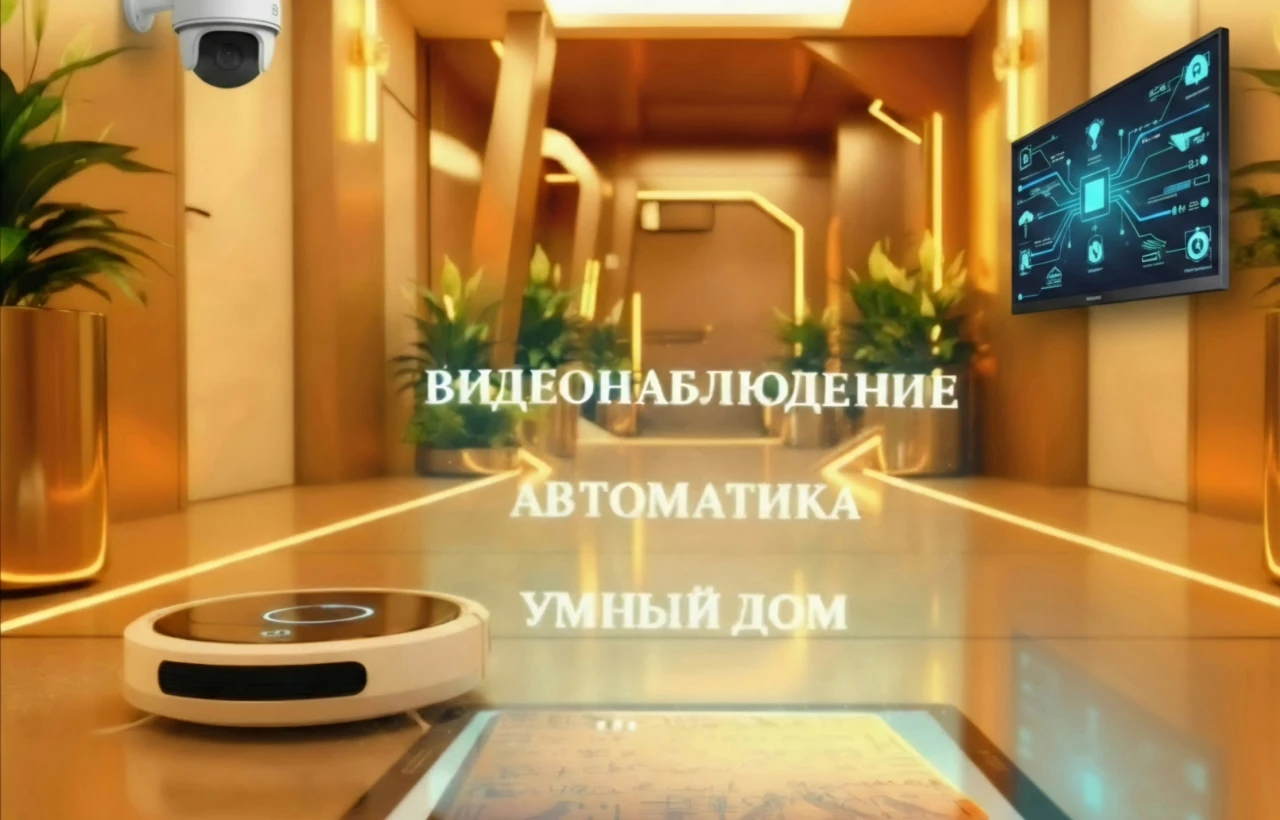
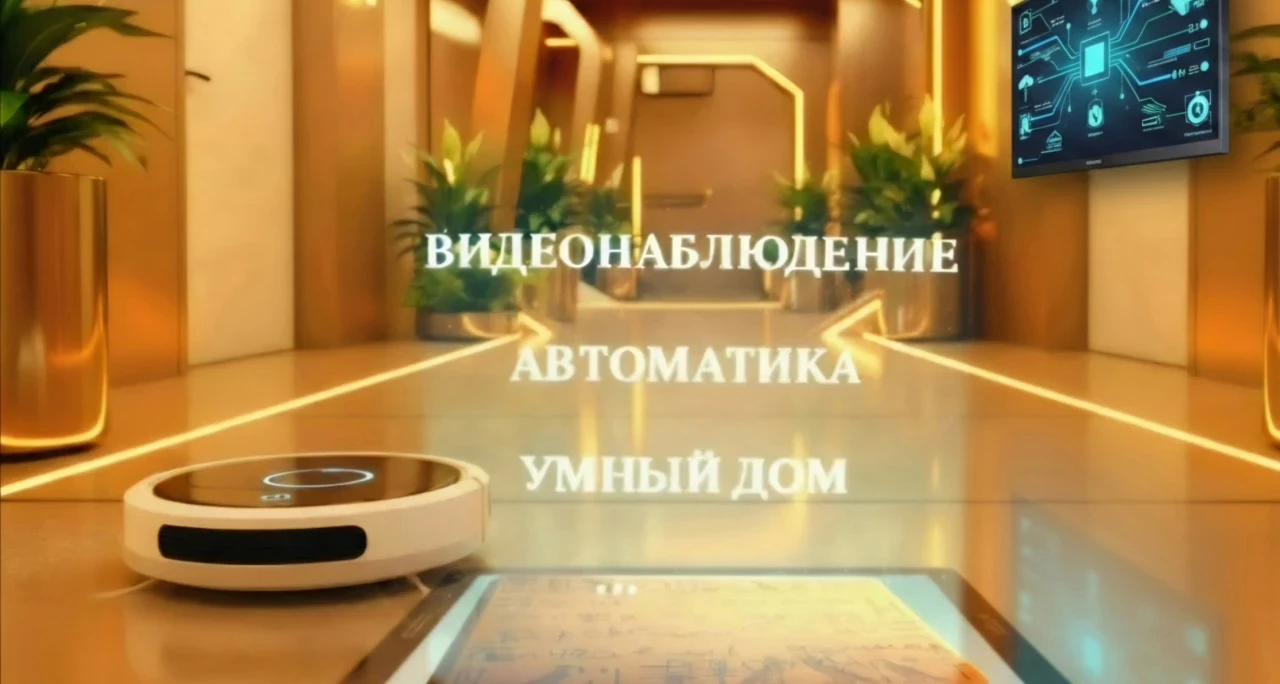
sep_img

diff --git a/assets/css/style.css b/assets/css/style.css
@@ -368,7 +368,7 @@ h1, h2, h3, h4, h5, h6 {
 }
 
 .portfolio {
-	background-image: url(../img/portfolio-sep.jpg);
+	background-image: url(../img/about-sep-end.webp);
 }
 
 /* Service Wrap */
@@ -497,19 +497,13 @@ h1, h2, h3, h4, h5, h6 {
             
 			.sep {
 				background-attachment: fixed;
-				background-position: 30% 0;
+				background-position: 10% 0;
 				background-repeat: no-repeat;
-				height: 200px;
+				height: 100px;
 				position: relative;
 			}
 
-            /* Кнопка растягивается на всю ширину экрана для удобства нажатия */
-            .btn {
-                display: block;
-                width: 100%;
-                text-align: center;
-            }
-            
+           
             /* Уменьшаем заголовки, чтобы они не переносились некрасиво */
 			
 			#headerwrap h1 {